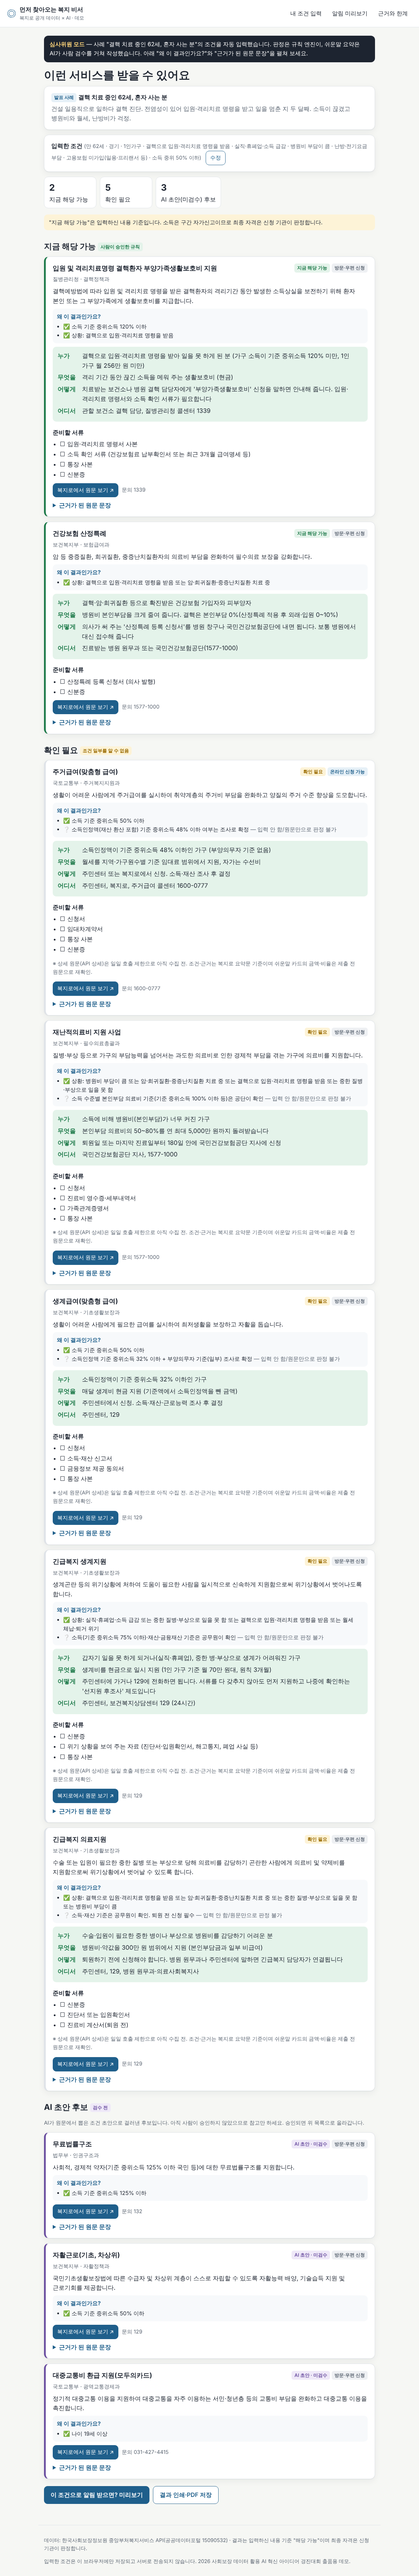
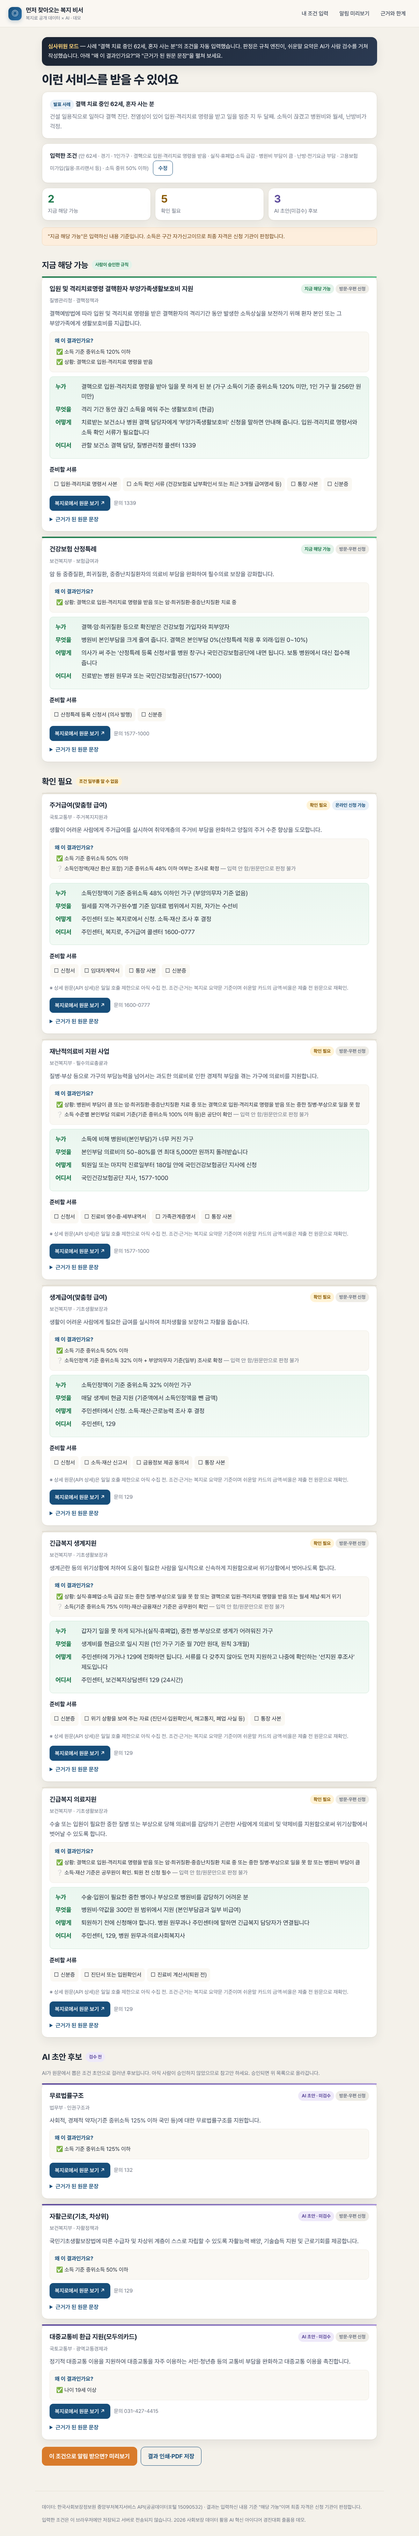
복지 비서 데모 디자인 개선 — Pretendard, 히어로, 사례 카드, 결과 카드 톤 정리
Claude-Session: https://claude.ai/code/session_01AeTNfKz5rfSRc8BPtp3RZL

Changed region(s): [[0.0925, 0.0, 0.8942, 0.9977], [0.4625, 0.9041, 0.6475, 0.9353], [0.0308, 0.0, 0.0617, 0.0312]]

diff --git a/bokji-biseo/css/style.css b/bokji-biseo/css/style.css
@@ -1,66 +1,97 @@
+/* 먼저 찾아오는 복지 비서 — 신뢰감 있는 따뜻한 톤 */
+@import url('https://cdn.jsdelivr.net/gh/orioncactus/pretendard@v1.3.9/dist/web/variable/pretendardvariable-dynamic-subset.min.css');
 :root{
-  --bg:#f6f7f4; --card:#ffffff; --ink:#1d2430; --mute:#5b6572; --line:#dfe3e8;
-  --brand:#1f5f8b; --brand-soft:#e6f0f7; --ok:#1e7a4a; --ok-soft:#e4f3ea; --warn:#9a6b00; --warn-soft:#fdf3d7;
-  --draft:#6b4fa0; --draft-soft:#efe9f8; --danger:#a33; --r:14px; --shadow:0 1px 2px rgba(0,0,0,.05),0 6px 20px rgba(20,30,50,.06);
+  --bg:#f4f1ea; --bg2:#faf8f3; --card:#ffffff; --ink:#1b2432; --ink2:#3b4556; --mute:#6b7382; --line:#e4e0d6; --line2:#efece4;
+  --brand:#174e7a; --brand-2:#2a6fa8; --brand-soft:#e8f0f8; --accent:#d97b2b; --accent-soft:#fdeedd;
+  --ok:#1f7a4d; --ok-soft:#e3f3ea; --warn:#8a5a00; --warn-soft:#fff3d6; --draft:#5e4b9c; --draft-soft:#eee9f9;
+  --r:16px; --r-sm:10px; --shadow:0 1px 2px rgba(27,36,50,.04),0 10px 28px rgba(27,36,50,.07); --shadow-lg:0 20px 50px rgba(27,36,50,.12);
   font-size:17px;
 }
 *{box-sizing:border-box} html,body{margin:0}
-body{background:var(--bg);color:var(--ink);font-family:"Pretendard","Apple SD Gothic Neo","Malgun Gothic","Noto Sans KR",system-ui,sans-serif;line-height:1.6;word-break:keep-all}
+body{background:var(--bg);color:var(--ink);font-family:"Pretendard Variable",Pretendard,"Apple SD Gothic Neo","Malgun Gothic","Noto Sans KR",system-ui,sans-serif;line-height:1.65;word-break:keep-all;-webkit-font-smoothing:antialiased}
 a{color:var(--brand)}
-.top{display:flex;align-items:center;justify-content:space-between;gap:16px;padding:14px 20px;background:#fff;border-bottom:1px solid var(--line);position:sticky;top:0;z-index:5}
-.brand{display:flex;align-items:center;gap:10px;text-decoration:none;color:var(--ink)}
-.brand-mark{font-size:26px;color:var(--brand)} .brand small{display:block;color:var(--mute);font-size:.8rem;font-weight:400}
-.top nav{display:flex;gap:6px;flex-wrap:wrap} .top nav a{text-decoration:none;padding:8px 12px;border-radius:999px;color:var(--ink);font-size:.95rem} .top nav a:hover{background:var(--brand-soft)}
-main{max-width:980px;margin:0 auto;padding:24px 16px 60px}
-.foot{max-width:980px;margin:0 auto;padding:16px;color:var(--mute);font-size:.85rem;border-top:1px solid var(--line)}
-h1{font-size:1.9rem;line-height:1.3;margin:8px 0 10px} h2{font-size:1.35rem;margin:28px 0 10px} h3{font-size:1.1rem;margin:0 0 6px}
-.lead{font-size:1.1rem;color:var(--mute);margin:0 0 20px}
-.card{background:var(--card);border:1px solid var(--line);border-radius:var(--r);padding:18px 20px;box-shadow:var(--shadow);margin-bottom:14px}
-.grid{display:grid;gap:14px;grid-template-columns:repeat(auto-fit,minmax(260px,1fr))}
-.persona{cursor:pointer;text-align:left;border:1px solid var(--line);background:#fff;border-radius:var(--r);padding:18px;box-shadow:var(--shadow);font:inherit;color:inherit;transition:transform .1s}
-.persona:hover{transform:translateY(-2px);border-color:var(--brand)}
-.persona .tag{display:inline-block;font-size:.8rem;color:var(--brand);background:var(--brand-soft);border-radius:6px;padding:2px 8px;margin-bottom:8px}
-.persona p{margin:6px 0 0;color:var(--mute);font-size:.95rem}
-.btn{display:inline-block;border:1px solid var(--brand);background:var(--brand);color:#fff;border-radius:10px;padding:11px 18px;font:inherit;font-weight:600;cursor:pointer;text-decoration:none}
-.btn.ghost{background:#fff;color:var(--brand)} .btn.sm{padding:7px 12px;font-size:.9rem;font-weight:500}
+/* 상단 */
+.top{display:flex;align-items:center;justify-content:space-between;gap:16px;padding:14px 24px;background:rgba(250,248,243,.85);backdrop-filter:blur(10px);border-bottom:1px solid var(--line);position:sticky;top:0;z-index:5}
+.brand{display:flex;align-items:center;gap:12px;text-decoration:none;color:var(--ink)}
+.brand-mark{width:38px;height:38px;border-radius:12px;display:grid;place-items:center;background:linear-gradient(135deg,var(--brand),var(--brand-2));color:#fff;font-size:20px;box-shadow:0 4px 12px rgba(23,78,122,.25)}
+.brand b{font-size:1.05rem;letter-spacing:-.01em} .brand small{display:block;color:var(--mute);font-size:.78rem;font-weight:400;margin-top:-2px}
+.top nav{display:flex;gap:4px;flex-wrap:wrap} .top nav a{text-decoration:none;padding:8px 14px;border-radius:999px;color:var(--ink2);font-size:.93rem;font-weight:500;transition:background .15s} .top nav a:hover{background:var(--brand-soft);color:var(--brand)}
+main{max-width:1000px;margin:0 auto;padding:28px 20px 72px}
+.foot{max-width:1000px;margin:0 auto;padding:20px;color:var(--mute);font-size:.84rem;border-top:1px solid var(--line);line-height:1.6}
+h1{font-size:2.1rem;line-height:1.25;margin:6px 0 12px;letter-spacing:-.02em;font-weight:800} h2{font-size:1.4rem;margin:36px 0 12px;letter-spacing:-.01em;font-weight:700;display:flex;align-items:center;gap:10px;flex-wrap:wrap} h3{font-size:1.12rem;margin:0 0 6px;font-weight:700;letter-spacing:-.01em}
+.lead{font-size:1.12rem;color:var(--ink2);margin:0 0 22px;max-width:760px}
+/* 히어로 */
+.hero{position:relative;overflow:hidden;border-radius:24px;padding:44px 40px 40px;margin:6px 0 26px;background:linear-gradient(135deg,#17405f 0%,#1f5f8b 55%,#2b7bb3 100%);color:#fff;box-shadow:var(--shadow-lg)}
+.hero::before{content:"";position:absolute;right:-80px;top:-80px;width:320px;height:320px;border-radius:50%;background:radial-gradient(circle,rgba(255,255,255,.18),rgba(255,255,255,0) 70%)}
+.hero::after{content:"";position:absolute;left:30%;bottom:-120px;width:360px;height:360px;border-radius:50%;background:radial-gradient(circle,rgba(217,123,43,.35),rgba(217,123,43,0) 70%)}
+.hero>*{position:relative}
+.hero .eyebrow{display:inline-flex;align-items:center;gap:8px;background:rgba(255,255,255,.14);border:1px solid rgba(255,255,255,.25);border-radius:999px;padding:6px 14px;font-size:.85rem;font-weight:600;margin-bottom:14px}
+.hero h1{color:#fff;font-size:2.4rem;margin:0 0 12px}
+.hero .lead{color:rgba(255,255,255,.88);margin-bottom:22px}
+.hero .btn{background:#fff;color:var(--brand);border-color:#fff} .hero .btn.ghost{background:transparent;color:#fff;border-color:rgba(255,255,255,.55)}
+/* 단계 */
+.steps{display:grid;grid-template-columns:repeat(4,1fr);gap:12px;margin:0 0 8px;padding:0;list-style:none}
+.steps li{background:var(--card);border:1px solid var(--line);border-radius:var(--r);padding:16px 16px 14px;font-size:.93rem;position:relative;box-shadow:var(--shadow)}
+.steps li b{display:flex;align-items:center;gap:8px;color:var(--brand);font-size:.95rem;margin-bottom:4px}
+.steps li b::before{content:attr(data-n);width:26px;height:26px;border-radius:50%;background:var(--brand-soft);color:var(--brand);display:grid;place-items:center;font-size:.8rem;font-weight:800}
+/* 카드 */
+.card{background:var(--card);border:1px solid var(--line);border-radius:var(--r);padding:20px 22px;box-shadow:var(--shadow);margin-bottom:14px}
+.grid{display:grid;gap:16px;grid-template-columns:repeat(auto-fit,minmax(270px,1fr))}
+.persona{cursor:pointer;text-align:left;border:1px solid var(--line);background:var(--card);border-radius:20px;padding:22px 22px 20px;box-shadow:var(--shadow);font:inherit;color:inherit;transition:transform .15s,box-shadow .15s,border-color .15s;position:relative;overflow:hidden}
+.persona::before{content:"";position:absolute;left:0;top:0;right:0;height:5px;background:var(--pc,var(--brand))}
+.persona:hover{transform:translateY(-3px);box-shadow:var(--shadow-lg);border-color:var(--pc,var(--brand))}
+.persona .ico{width:52px;height:52px;border-radius:16px;display:grid;place-items:center;font-size:28px;background:var(--pcs,var(--brand-soft));margin-bottom:12px}
+.persona .tag{display:inline-block;font-size:.78rem;color:var(--pc,var(--brand));background:var(--pcs,var(--brand-soft));border-radius:6px;padding:3px 9px;margin-bottom:8px;font-weight:700}
+.persona h3{font-size:1.15rem} .persona p{margin:6px 0 14px;color:var(--mute);font-size:.95rem;line-height:1.6}
+.persona .go{color:var(--pc,var(--brand));font-weight:700;font-size:.95rem}
+.p-tb{--pc:#1f7a4d;--pcs:#e3f3ea} .p-shop{--pc:#d97b2b;--pcs:#fdeedd} .p-baby{--pc:#8a4fa8;--pcs:#f3e8fa}
+/* 버튼·배지 */
+.btn{display:inline-flex;align-items:center;gap:6px;border:1px solid var(--brand);background:var(--brand);color:#fff;border-radius:12px;padding:12px 20px;font:inherit;font-weight:700;cursor:pointer;text-decoration:none;transition:filter .15s,transform .1s}
+.btn:hover{filter:brightness(1.08)} .btn:active{transform:translateY(1px)}
+.btn.ghost{background:transparent;color:var(--brand)} .btn.sm{padding:8px 14px;font-size:.9rem;font-weight:600;border-radius:10px} .btn.accent{background:var(--accent);border-color:var(--accent)}
 .btn:disabled{opacity:.5;cursor:default}
 .row{display:flex;gap:10px;flex-wrap:wrap;align-items:center}
-.steps{display:flex;gap:8px;flex-wrap:wrap;margin:0 0 18px;padding:0;list-style:none}
-.steps li{flex:1;min-width:120px;background:#fff;border:1px solid var(--line);border-radius:10px;padding:10px 12px;font-size:.9rem}
-.steps li b{display:block;color:var(--brand);font-size:.8rem}
-fieldset{border:1px solid var(--line);border-radius:12px;padding:14px 16px;margin:0 0 14px;background:#fff}
-legend{font-weight:700;padding:0 6px}
+.badge{display:inline-flex;align-items:center;gap:4px;font-size:.78rem;border-radius:999px;padding:3px 10px;font-weight:700;vertical-align:middle;white-space:nowrap}
+.b-ok{background:var(--ok-soft);color:var(--ok)} .b-warn{background:var(--warn-soft);color:var(--warn)} .b-draft{background:var(--draft-soft);color:var(--draft)} .b-mute{background:#eeece6;color:var(--mute)} .b-brand{background:var(--brand-soft);color:var(--brand)}
+/* 입력 */
+fieldset{border:1px solid var(--line);border-radius:var(--r);padding:18px 20px 14px;margin:0 0 16px;background:var(--card);box-shadow:var(--shadow)}
+legend{font-weight:800;padding:0 8px;color:var(--brand)}
 .hint{color:var(--mute);font-size:.9rem;margin:2px 0 8px}
-label.chk{display:inline-flex;align-items:center;gap:6px;border:1px solid var(--line);border-radius:999px;padding:7px 12px;margin:4px 4px 4px 0;cursor:pointer;background:#fafbfc;font-size:.95rem}
-label.chk:has(input:checked){background:var(--brand-soft);border-color:var(--brand);color:var(--brand);font-weight:600}
-label.chk input{accent-color:var(--brand)}
-select,input[type=number]{font:inherit;padding:9px 12px;border:1px solid var(--line);border-radius:10px;background:#fff;min-width:140px}
-.badge{display:inline-block;font-size:.78rem;border-radius:6px;padding:2px 8px;font-weight:600;vertical-align:middle}
-.b-ok{background:var(--ok-soft);color:var(--ok)} .b-warn{background:var(--warn-soft);color:var(--warn)} .b-draft{background:var(--draft-soft);color:var(--draft)} .b-mute{background:#eef0f3;color:var(--mute)} .b-brand{background:var(--brand-soft);color:var(--brand)}
-.svc{border-left:5px solid var(--line)} .svc.ok{border-left-color:var(--ok)} .svc.warn{border-left-color:var(--warn)} .svc.draft{border-left-color:var(--draft)}
+label.chk{display:inline-flex;align-items:center;gap:7px;border:1px solid var(--line);border-radius:999px;padding:8px 14px;margin:4px 6px 4px 0;cursor:pointer;background:var(--bg2);font-size:.95rem;transition:all .12s}
+label.chk:hover{border-color:var(--brand-2)}
+label.chk:has(input:checked){background:var(--brand);border-color:var(--brand);color:#fff;font-weight:600}
+label.chk input{accent-color:var(--brand);margin:0}
+label.chk:has(input:checked) input{accent-color:#fff}
+select,input[type=number]{font:inherit;padding:10px 14px;border:1px solid var(--line);border-radius:12px;background:#fff;min-width:150px}
+select:focus,input:focus{outline:2px solid var(--brand-2);outline-offset:1px}
+/* 결과 */
+.svc{border-left:0;padding-top:18px}
+.svc::before{content:"";display:block;height:4px;border-radius:4px;margin:-18px -22px 16px;background:var(--line)}
+.svc.ok::before{background:linear-gradient(90deg,var(--ok),#5fbf8a)} .svc.warn::before{background:linear-gradient(90deg,var(--warn),#e0b64a)} .svc.draft::before{background:linear-gradient(90deg,var(--draft),#a893d8)}
 .svc .head{display:flex;justify-content:space-between;gap:10px;align-items:flex-start;flex-wrap:wrap}
 .svc .jur{color:var(--mute);font-size:.88rem}
-.svc .digest{margin:8px 0 6px}
-.why{background:#f7f9fb;border-radius:10px;padding:10px 12px;font-size:.92rem;margin-top:8px}
-.why b{color:var(--brand)}
-.why ul{margin:4px 0 0;padding-left:18px}
-details{margin-top:10px} summary{cursor:pointer;font-weight:600;color:var(--brand)}
-.easy{background:var(--ok-soft);border-radius:10px;padding:12px 14px;margin-top:10px;font-size:1.02rem}
-.easy dt{font-weight:700;color:var(--ok);float:left;width:64px} .easy dd{margin:0 0 6px 70px}
-.docs ul{margin:6px 0;padding-left:20px} .docs li{margin:2px 0}
-.quote{border-left:3px solid var(--line);padding-left:10px;color:var(--mute);font-size:.9rem;margin:6px 0}
-.summary-bar{display:flex;gap:10px;flex-wrap:wrap;margin:10px 0 18px}
-.summary-bar .stat{background:#fff;border:1px solid var(--line);border-radius:12px;padding:10px 14px;min-width:150px}
-.summary-bar .stat b{display:block;font-size:1.5rem}
-.notice{background:var(--warn-soft);border-radius:10px;padding:10px 14px;font-size:.92rem;margin:0 0 14px}
-.alert-item{display:flex;gap:12px;align-items:flex-start;border-bottom:1px solid var(--line);padding:12px 0}
+.svc .digest{margin:10px 0 6px;color:var(--ink2)}
+.why{background:var(--bg2);border:1px solid var(--line2);border-radius:var(--r-sm);padding:12px 14px;font-size:.92rem;margin-top:10px}
+.why b{color:var(--brand)} .why ul{margin:6px 0 0;padding-left:4px;list-style:none} .why li{margin:3px 0}
+details{margin-top:12px} summary{cursor:pointer;font-weight:600;color:var(--brand);font-size:.95rem}
+.easy{background:linear-gradient(180deg,#eaf6ef,#f3faf5);border:1px solid #cfe8d9;border-radius:var(--r-sm);padding:14px 16px;margin-top:12px;font-size:1.03rem}
+.easy dt{font-weight:800;color:var(--ok);float:left;width:68px} .easy dd{margin:0 0 8px 74px}
+.docs{margin-top:10px} .docs ul{margin:6px 0;padding-left:2px;list-style:none} .docs li{margin:3px 0;padding:6px 10px;background:var(--bg2);border-radius:8px;display:inline-block;margin-right:6px;font-size:.93rem}
+.quote{border-left:3px solid var(--brand-2);padding-left:12px;color:var(--ink2);font-size:.9rem;margin:8px 0;background:var(--bg2);padding:8px 12px;border-radius:0 8px 8px 0}
+.summary-bar{display:grid;grid-template-columns:repeat(auto-fit,minmax(150px,1fr));gap:12px;margin:12px 0 20px}
+.summary-bar .stat{background:var(--card);border:1px solid var(--line);border-radius:var(--r);padding:14px 16px;box-shadow:var(--shadow)}
+.summary-bar .stat b{display:block;font-size:1.8rem;letter-spacing:-.02em;line-height:1.1;margin-bottom:4px} .summary-bar .stat{font-size:.9rem;color:var(--mute)}
+.stat.s-ok b{color:var(--ok)} .stat.s-warn b{color:var(--warn)} .stat.s-draft b{color:var(--draft)} .stat.s-brand b{color:var(--brand)}
+.notice{background:var(--accent-soft);border:1px solid #f3d9bd;border-radius:var(--r-sm);padding:12px 16px;font-size:.92rem;margin:0 0 16px;color:#6b3f10}
+.alert-item{display:flex;gap:14px;align-items:flex-start;border-bottom:1px solid var(--line2);padding:14px 0}
 .alert-item:last-child{border-bottom:0}
-.alert-item .ic{font-size:1.4rem;width:34px;text-align:center}
+.alert-item .ic{font-size:1.3rem;width:40px;height:40px;border-radius:12px;display:grid;place-items:center;background:var(--bg2);flex:none}
 .alert-item time{color:var(--mute);font-size:.85rem}
-.judge{background:#1d2430;color:#fff;border-radius:12px;padding:12px 16px;margin-bottom:16px;font-size:.95rem}
+.judge{background:linear-gradient(135deg,#1b2432,#2b3a52);color:#fff;border-radius:var(--r);padding:14px 18px;margin-bottom:18px;font-size:.95rem;box-shadow:var(--shadow)}
 .judge b{color:#ffd57a}
-table{border-collapse:collapse;width:100%;font-size:.92rem} th,td{border:1px solid var(--line);padding:8px 10px;text-align:left;vertical-align:top} th{background:#f2f5f8}
+table{border-collapse:separate;border-spacing:0;width:100%;font-size:.92rem;border:1px solid var(--line);border-radius:var(--r-sm);overflow:hidden} th,td{border-bottom:1px solid var(--line2);padding:10px 12px;text-align:left;vertical-align:top} th{background:var(--bg2);font-weight:700} tr:last-child td{border-bottom:0}
 .muted{color:var(--mute)} .small{font-size:.88rem}
-.more{display:block;width:100%;margin-top:6px}
-@media (max-width:640px){ .top{flex-direction:column;align-items:flex-start} h1{font-size:1.5rem} .easy dt{float:none;width:auto} .easy dd{margin-left:0} }
-@media print{ .top nav,.btn,.judge,.foot{display:none} .card{box-shadow:none;break-inside:avoid} }
+.more{display:flex;justify-content:center;width:100%;margin-top:8px}
+@media (max-width:760px){ .steps{grid-template-columns:repeat(2,1fr)} .hero{padding:30px 22px 26px;border-radius:18px} .hero h1{font-size:1.75rem} }
+@media (max-width:640px){ .top{flex-direction:column;align-items:flex-start;padding:12px 16px} h1{font-size:1.6rem} .easy dt{float:none;width:auto} .easy dd{margin-left:0} main{padding:18px 14px 60px} .card{padding:16px} .svc::before{margin:-16px -16px 14px} }
+@media print{ .top nav,.btn,.judge,.foot,.more{display:none} .card{box-shadow:none;break-inside:avoid} body{background:#fff} }

diff --git a/bokji-biseo/js/app.js b/bokji-biseo/js/app.js
@@ -35,33 +35,36 @@ async function viewHome() {
   const d = await load();
   const approved = d.services.filter(s => s.rule?.status === 'approved').length;
   const draft = d.services.filter(s => s.rule?.status === 'draft').length;
+  const ICON = { tb: '🩺', shop: '☕', baby: '👶' };
   app.innerHTML = `
-  <h1>검색하지 않아도, 받을 수 있는 복지가 먼저 찾아옵니다</h1>
-  <p class="lead">한국사회보장정보원이 공개한 복지서비스 데이터를 매일 읽어, 내 조건에 맞는 것이 생기면 알려 드리고 쉬운말 요약과 서류 체크리스트로 신청까지 함께 갑니다.</p>
+  <section class="hero">
+    <span class="eyebrow">◎ 복지로 공개 데이터 × AI · 2026 사회보장 데이터 활용 AI 혁신 아이디어</span>
+    <h1>검색하지 않아도,<br>받을 수 있는 복지가 먼저 찾아옵니다</h1>
+    <p class="lead">한국사회보장정보원이 공개한 복지서비스 데이터를 매일 읽어, 내 조건에 맞는 것이 생기면 알려 드리고 쉬운말 요약과 서류 체크리스트로 신청까지 함께 갑니다.</p>
+    <div class="row"><a class="btn" href="#/profile">내 조건으로 직접 해 보기</a><a class="btn ghost" href="#/about">무엇을 근거로 하나요?</a></div>
+  </section>
   <ol class="steps">
-    <li><b>1 수집</b>복지로 공개 API ${d.meta.count}건, 매일</li>
-    <li><b>2 구조화</b>AI가 지원 조건을 뽑고 사람이 승인</li>
-    <li><b>3 판정</b>규칙 엔진, 근거 문장 공개</li>
-    <li><b>4 알림·준비</b>쉬운말 · 서류 · 신청 경로</li>
+    <li><b data-n="1">수집</b>복지로 공개 API ${d.meta.count}건을 매일 읽어 새로 생긴 것·바뀐 것을 찾습니다</li>
+    <li><b data-n="2">구조화</b>AI가 지원 조건 초안을 뽑고, 사람이 원문과 대조해 승인합니다</li>
+    <li><b data-n="3">판정</b>규칙 엔진이 조건마다 ✅❌❔를 매기고 근거 문장을 공개합니다</li>
+    <li><b data-n="4">알림·준비</b>쉬운말 4줄, 서류 체크리스트, 신청 경로까지 한 장으로</li>
   </ol>
   <h2>사례로 바로 보기</h2>
   <div class="grid">
     ${Object.values(PERSONAS).map(p => `
-      <button class="persona" data-p="${p.id}">
+      <button class="persona p-${p.id}" data-p="${p.id}">
+        <div class="ico">${ICON[p.id] || '◎'}</div>
         <span class="tag">${esc(p.tag)}</span>
         <h3>${esc(p.name)}</h3>
         <p>${esc(p.story)}</p>
+        <span class="go">이 사례로 결과 보기 →</span>
       </button>`).join('')}
-  </div>
-  <div class="row" style="margin-top:18px">
-    <a class="btn" href="#/profile">내 조건으로 직접 해 보기</a>
-    <a class="btn ghost" href="#/about">이 결과는 무엇을 근거로 하나요?</a>
   </div>
   <h2>지금 이 데모가 다루는 데이터</h2>
   <div class="summary-bar">
-    <div class="stat"><b>${d.meta.count}</b>중앙부처 복지서비스 (${d.meta.ministries}개 부처)</div>
-    <div class="stat"><b>${approved}</b>사람이 승인한 규칙 <span class="badge b-ok">승인</span></div>
-    <div class="stat"><b>${draft}</b>AI 초안 규칙 <span class="badge b-draft">미검수</span></div>
+    <div class="stat s-brand"><b>${d.meta.count}</b>중앙부처 복지서비스 · ${d.meta.ministries}개 부처</div>
+    <div class="stat s-ok"><b>${approved}</b>사람이 승인한 규칙</div>
+    <div class="stat s-draft"><b>${draft}</b>AI 초안 규칙 (미검수)</div>
     <div class="stat"><b>${d.meta.fetched}</b>데이터 수집일</div>
   </div>
   <p class="small muted">지자체 복지서비스 API(접수기간 포함)는 다음 단계에서 연결합니다. 이 데모는 중앙부처 데이터만 사용합니다.</p>`;
@@ -159,9 +162,9 @@ async function viewResult(q) {
   ${story}
   <div class="card"><b>입력한 조건</b> <span class="muted small">(${profileSummary(p).map(esc).join(' · ') || '없음'})</span> <a class="btn sm ghost" href="#/profile" style="margin-left:8px">수정</a></div>
   <div class="summary-bar">
-    <div class="stat"><b>${g.ok.length}</b>지금 해당 가능</div>
-    <div class="stat"><b>${g.check.length}</b>확인 필요</div>
-    <div class="stat"><b>${g.draft.length}</b>AI 초안(미검수) 후보</div>
+    <div class="stat s-ok"><b>${g.ok.length}</b>지금 해당 가능</div>
+    <div class="stat s-warn"><b>${g.check.length}</b>확인 필요</div>
+    <div class="stat s-draft"><b>${g.draft.length}</b>AI 초안(미검수) 후보</div>
   </div>
   <p class="notice">"지금 해당 가능"은 입력하신 내용 기준입니다. 소득은 구간 자가신고이므로 최종 자격은 신청 기관이 판정합니다.</p>
   <h2>지금 해당 가능 <span class="badge b-ok">사람이 승인한 규칙</span></h2>
@@ -172,7 +175,7 @@ async function viewResult(q) {
   <p class="small muted">AI가 원문에서 뽑은 조건 초안으로 걸러낸 후보입니다. 아직 사람이 승인하지 않았으므로 참고만 하세요. 승인되면 위 목록으로 올라갑니다.</p>
   <div id="drafts">${g.draft.slice(0, DRAFT_SHOW).map(x => svcCard(x, 'draft')).join('')}</div>
   ${g.draft.length > DRAFT_SHOW ? `<button class="btn ghost more" id="more">후보 ${g.draft.length - DRAFT_SHOW}개 더 보기</button>` : ''}
-  <div class="row" style="margin-top:20px"><a class="btn" href="#/alert">이 조건으로 알림 받으면? 미리보기</a><button class="btn ghost" onclick="window.print()">결과 인쇄·PDF 저장</button></div>`;
+  <div class="row" style="margin-top:20px"><a class="btn accent" href="#/alert">이 조건으로 알림 받으면? 미리보기</a><button class="btn ghost" onclick="window.print()">결과 인쇄·PDF 저장</button></div>`;
   $('#more')?.addEventListener('click', () => { $('#drafts').innerHTML = g.draft.map(x => svcCard(x, 'draft')).join(''); $('#more').remove(); });
 }
 
